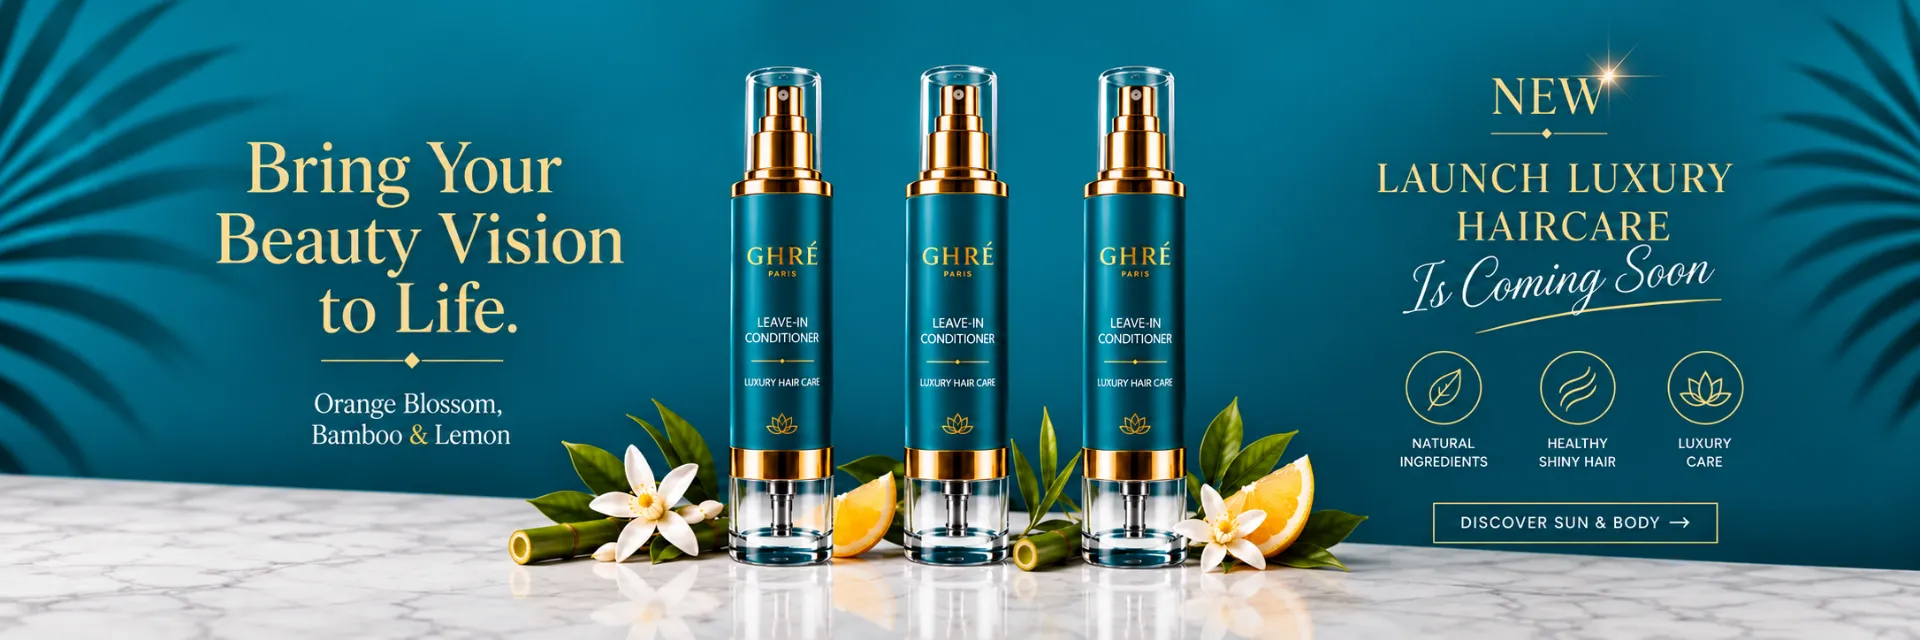
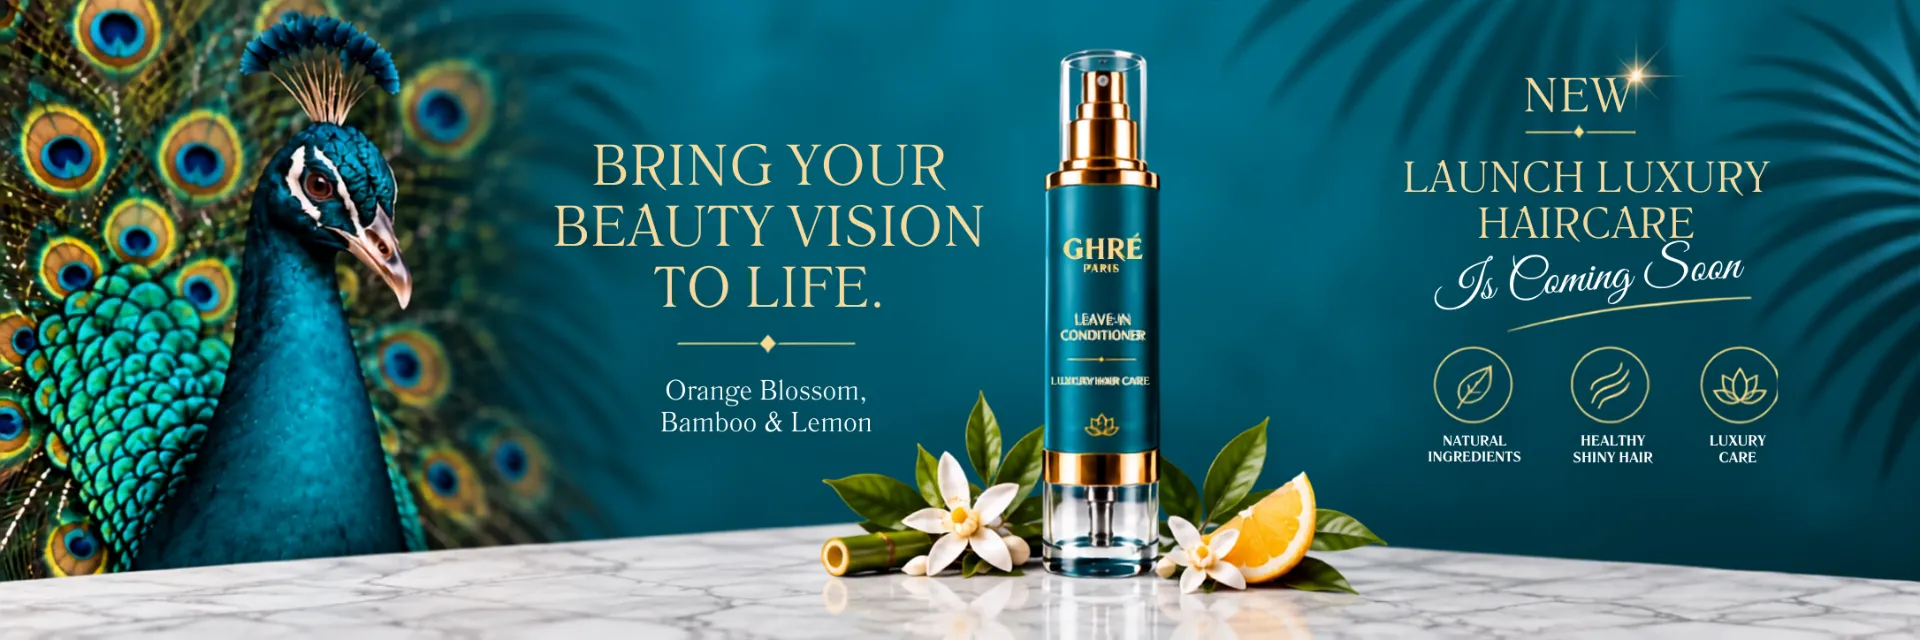
add new image in hero section slider

diff --git a/src/data/products.ts b/src/data/products.ts
@@ -41,7 +41,7 @@ export const CAMPAIGN_SLIDES: CampaignSlide[] = [
     secondaryCtaLink: "hair-care",
     accentTheme: "teal-gold",
     image: "/home/banner.webp",
-    mobileImage: "/home/welcome.webp",
+    mobileImage: "/home/new-welcome.webp",
   },
   {
     id: "ghre-collection-lineup",
